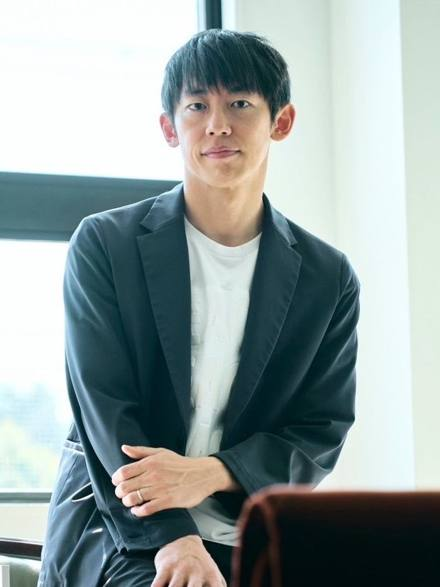
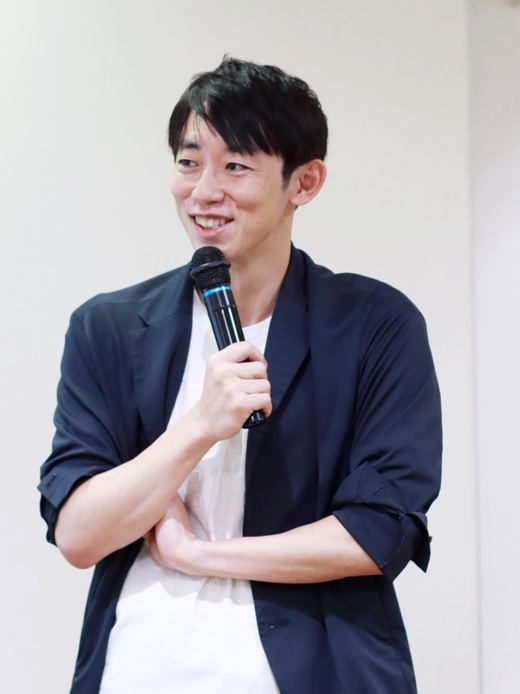
村主さんの写真を差し替え

diff --git a/index.html b/index.html
@@ -62,7 +62,7 @@
 <section><div class="wrap">
   <div class="ttl"><span class="en">MENTORS</span><h2>伴走するふたり</h2></div>
   <div class="mentor m">
-    <img src="murasugi.jpg" alt="村主悠真">
+    <img src="murasugi2.jpg" alt="村主悠真">
     <div>
       <span class="role">一般財団法人 日本寄付財団 代表理事</span>
       <h3>村主 悠真</h3><span class="en">YUMA MURASUGI</span>
